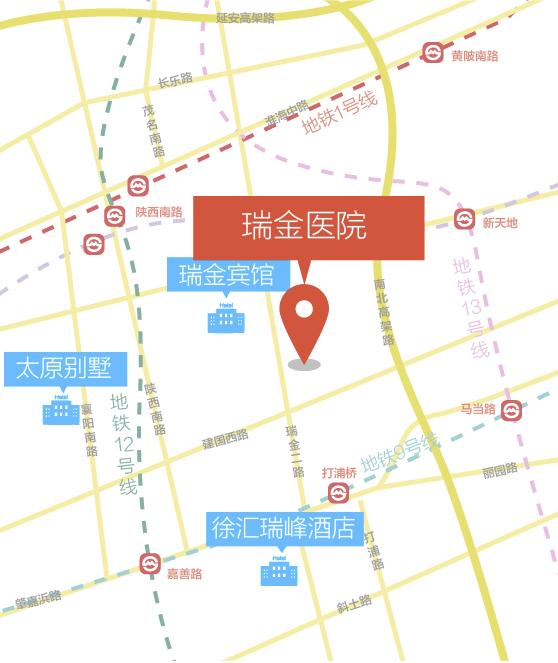
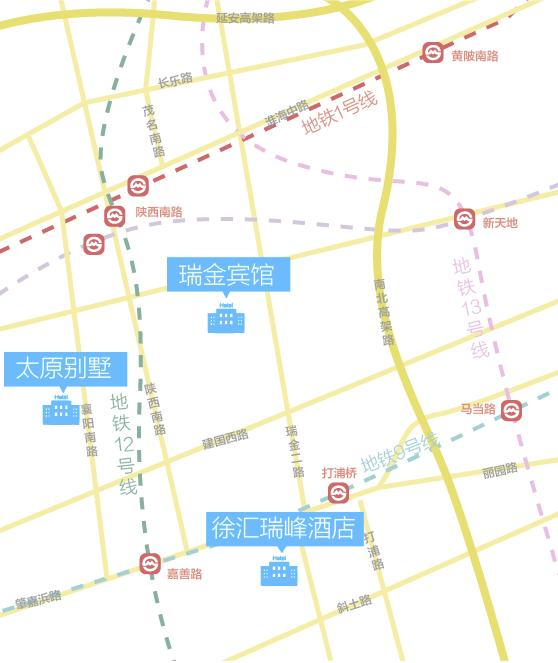
add location marker

Changed region(s): [[0.3351, 0.2715, 0.7616, 0.5732]]

diff --git a/public/css/style.less b/public/css/style.less
@@ -11,6 +11,7 @@ body {
   background-position: top auto;
   background-size: 100% auto;
   background-repeat: repeat-y;
+  padding-bottom: 1rem;
 
   &.home {
    background-image: url('/img/home.jpg');
@@ -34,7 +35,7 @@ img.contact {
   margin-top: 8rem;
 }
 
-img.full, a.navigation {
+img.full, a.navigation, .location {
   width: 90%;
   margin-left: auto;
   margin-right: auto;
@@ -42,8 +43,15 @@ img.full, a.navigation {
 }
 
 img.full {
-  margin-bottom: 1rem;
 }
+
+.location {
+  position: relative;
+  .map {
+    width: 100%;
+  }
+}
+
 
 a {
   color: white;
@@ -74,7 +82,6 @@ a.goback {
 ul.main.menu {
   display: block;
   margin-top: 2rem;
-  margin-bottom: 1rem;
   padding: 0;
 
   li {
@@ -159,4 +166,53 @@ ol.vips, ol.nurses {
   } to {
     transform: rotate(360deg);
   }
+}
+
+@keyframes bounceInDown {
+  from, 60%, 75%, 90%, to {
+    animation-timing-function: cubic-bezier(0.215, 0.610, 0.355, 1.000);
+  }
+
+  0% {
+    opacity: 0;
+    transform: translate3d(0, -3000px, 0);
+  }
+
+  60% {
+    opacity: 1;
+    transform: translate3d(0, 25px, 0);
+  }
+
+  75% {
+    transform: translate3d(0, -10px, 0);
+  }
+
+  90% {
+    transform: translate3d(0, 5px, 0);
+  }
+
+  to {
+    transform: none;
+  }
+}
+
+@marker-width: 116px;
+@marker-height: 88px;
+
+.marker {
+  position: absolute;
+  top: ~"calc((100% - @{marker-height})*0.44)";
+  left: ~"calc((100% - @{marker-width})*0.6)";
+  width: @marker-width;
+  height: @marker-height;
+  background-repeat: no-repeat;
+  background-image: url('/img/location/marker.png');
+  background-size: 100% 100%;
+  background-position: center center;
+}
+
+.bounceInDown {
+  animation-duration: 1s;
+  animation-fill-mode: both;
+  animation-name: bounceInDown;
 }

diff --git a/public/css/style.css b/public/css/style.css
@@ -6,6 +6,7 @@ body {
   background-position: top auto;
   background-size: 100% auto;
   background-repeat: repeat-y;
+  padding-bottom: 1rem;
 }
 body.home {
   background-image: url('/img/home.jpg');
@@ -25,14 +26,18 @@ img.contact {
   margin-top: 8rem;
 }
 img.full,
-a.navigation {
+a.navigation,
+.location {
   width: 90%;
   margin-left: auto;
   margin-right: auto;
   display: block;
 }
-img.full {
-  margin-bottom: 1rem;
+.location {
+  position: relative;
+}
+.location .map {
+  width: 100%;
 }
 a {
   color: white;
@@ -60,7 +65,6 @@ a.goback {
 ul.main.menu {
   display: block;
   margin-top: 2rem;
-  margin-bottom: 1rem;
   padding: 0;
 }
 ul.main.menu li {
@@ -140,4 +144,46 @@ ol.nurses a {
   to {
     transform: rotate(360deg);
   }
+}
+@keyframes bounceInDown {
+  from,
+  60%,
+  75%,
+  90%,
+  to {
+    animation-timing-function: cubic-bezier(0.215, 0.61, 0.355, 1);
+  }
+  0% {
+    opacity: 0;
+    transform: translate3d(0, -3000px, 0);
+  }
+  60% {
+    opacity: 1;
+    transform: translate3d(0, 25px, 0);
+  }
+  75% {
+    transform: translate3d(0, -10px, 0);
+  }
+  90% {
+    transform: translate3d(0, 5px, 0);
+  }
+  to {
+    transform: none;
+  }
+}
+.marker {
+  position: absolute;
+  top: calc((100% - 88px)*0.44);
+  left: calc((100% - 116px)*0.6);
+  width: 116px;
+  height: 88px;
+  background-repeat: no-repeat;
+  background-image: url('/img/location/marker.png');
+  background-size: 100% 100%;
+  background-position: center center;
+}
+.bounceInDown {
+  animation-duration: 1s;
+  animation-fill-mode: both;
+  animation-name: bounceInDown;
 }
